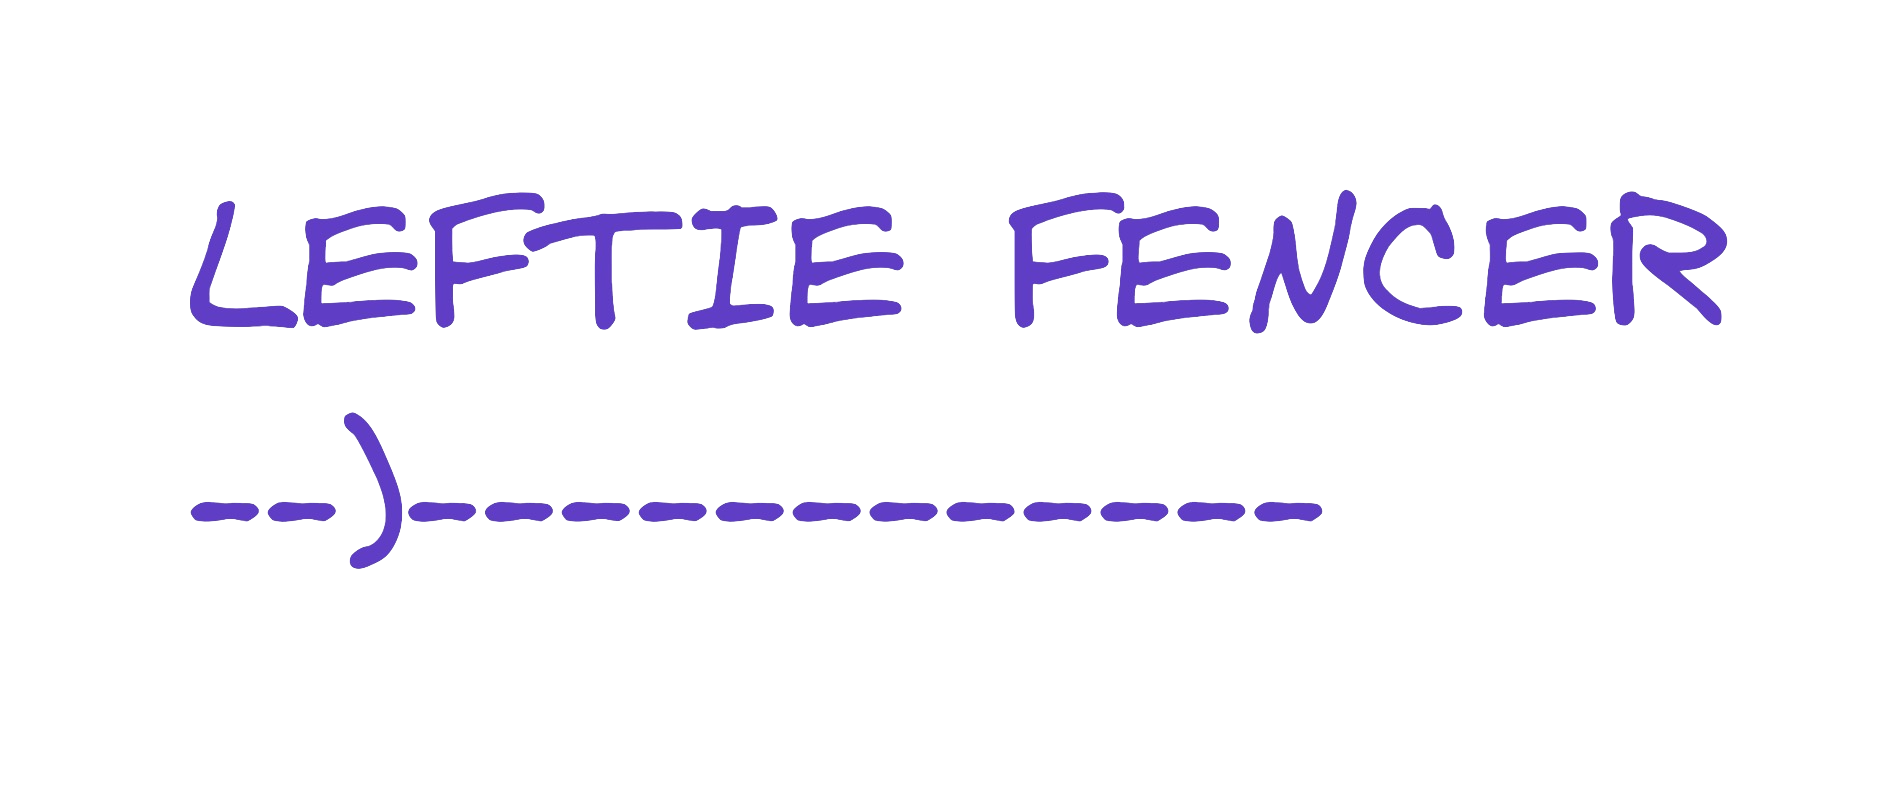
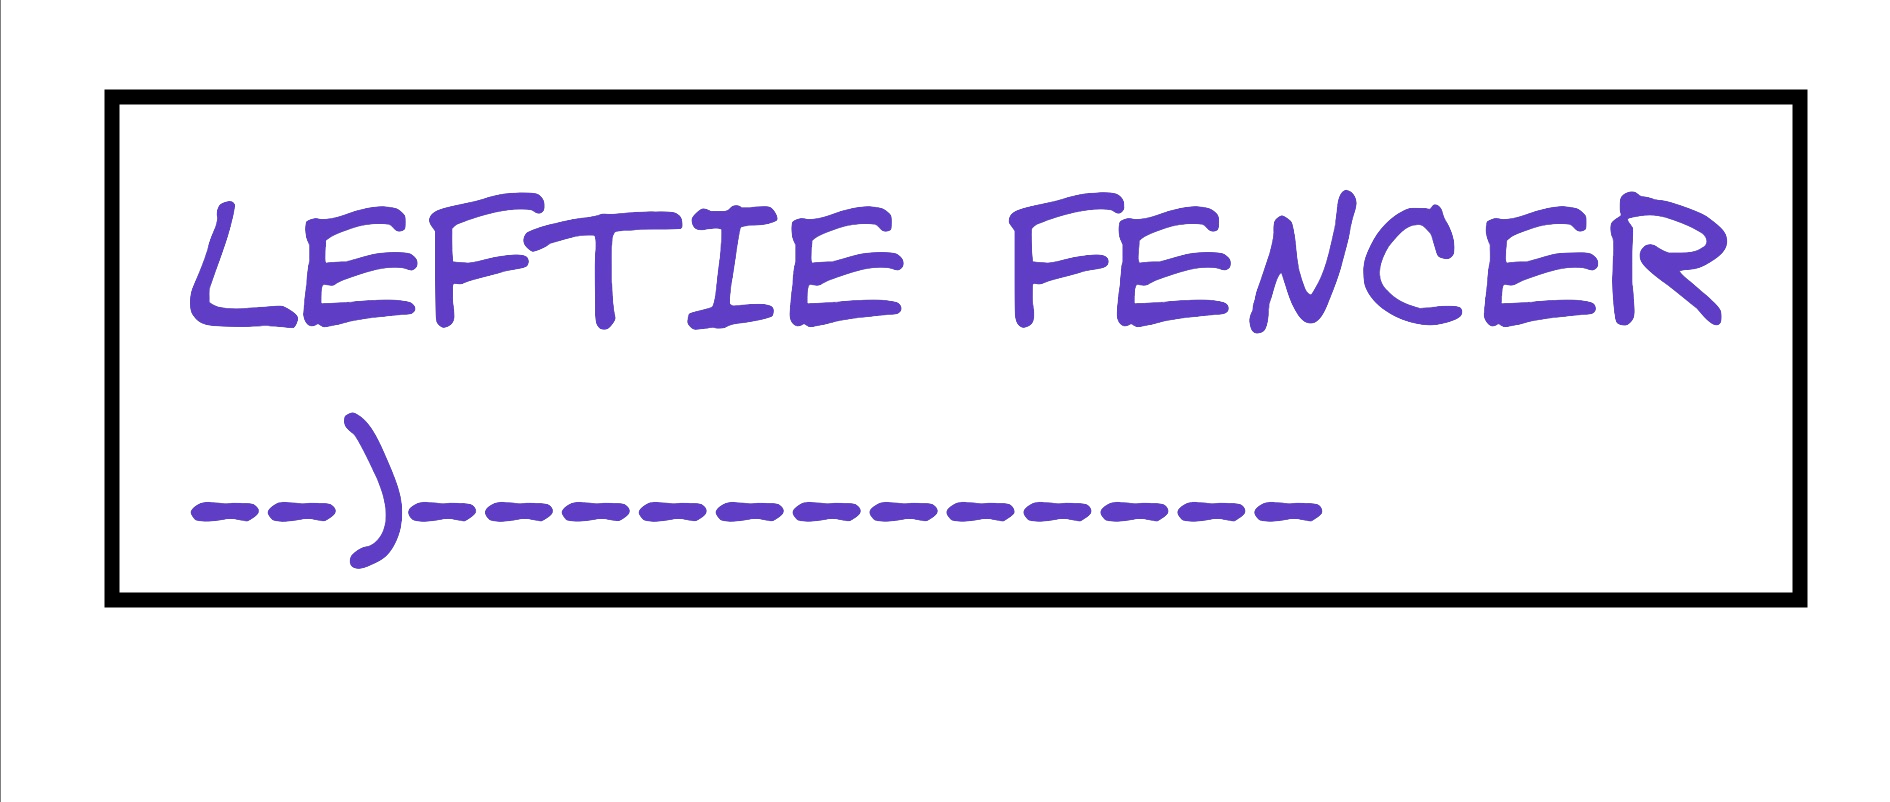
front page photo experiment (border)

Changed region(s): [[0.0312, 0.0935, 0.9677, 0.7793]]

diff --git a/index.html b/index.html
@@ -7,6 +7,11 @@
             background-color: #9790e2;
         }
 
+        img {
+            border-color: black;
+            border-width: 10px; 
+        }
+
     </style>
 </head>
 <html>
